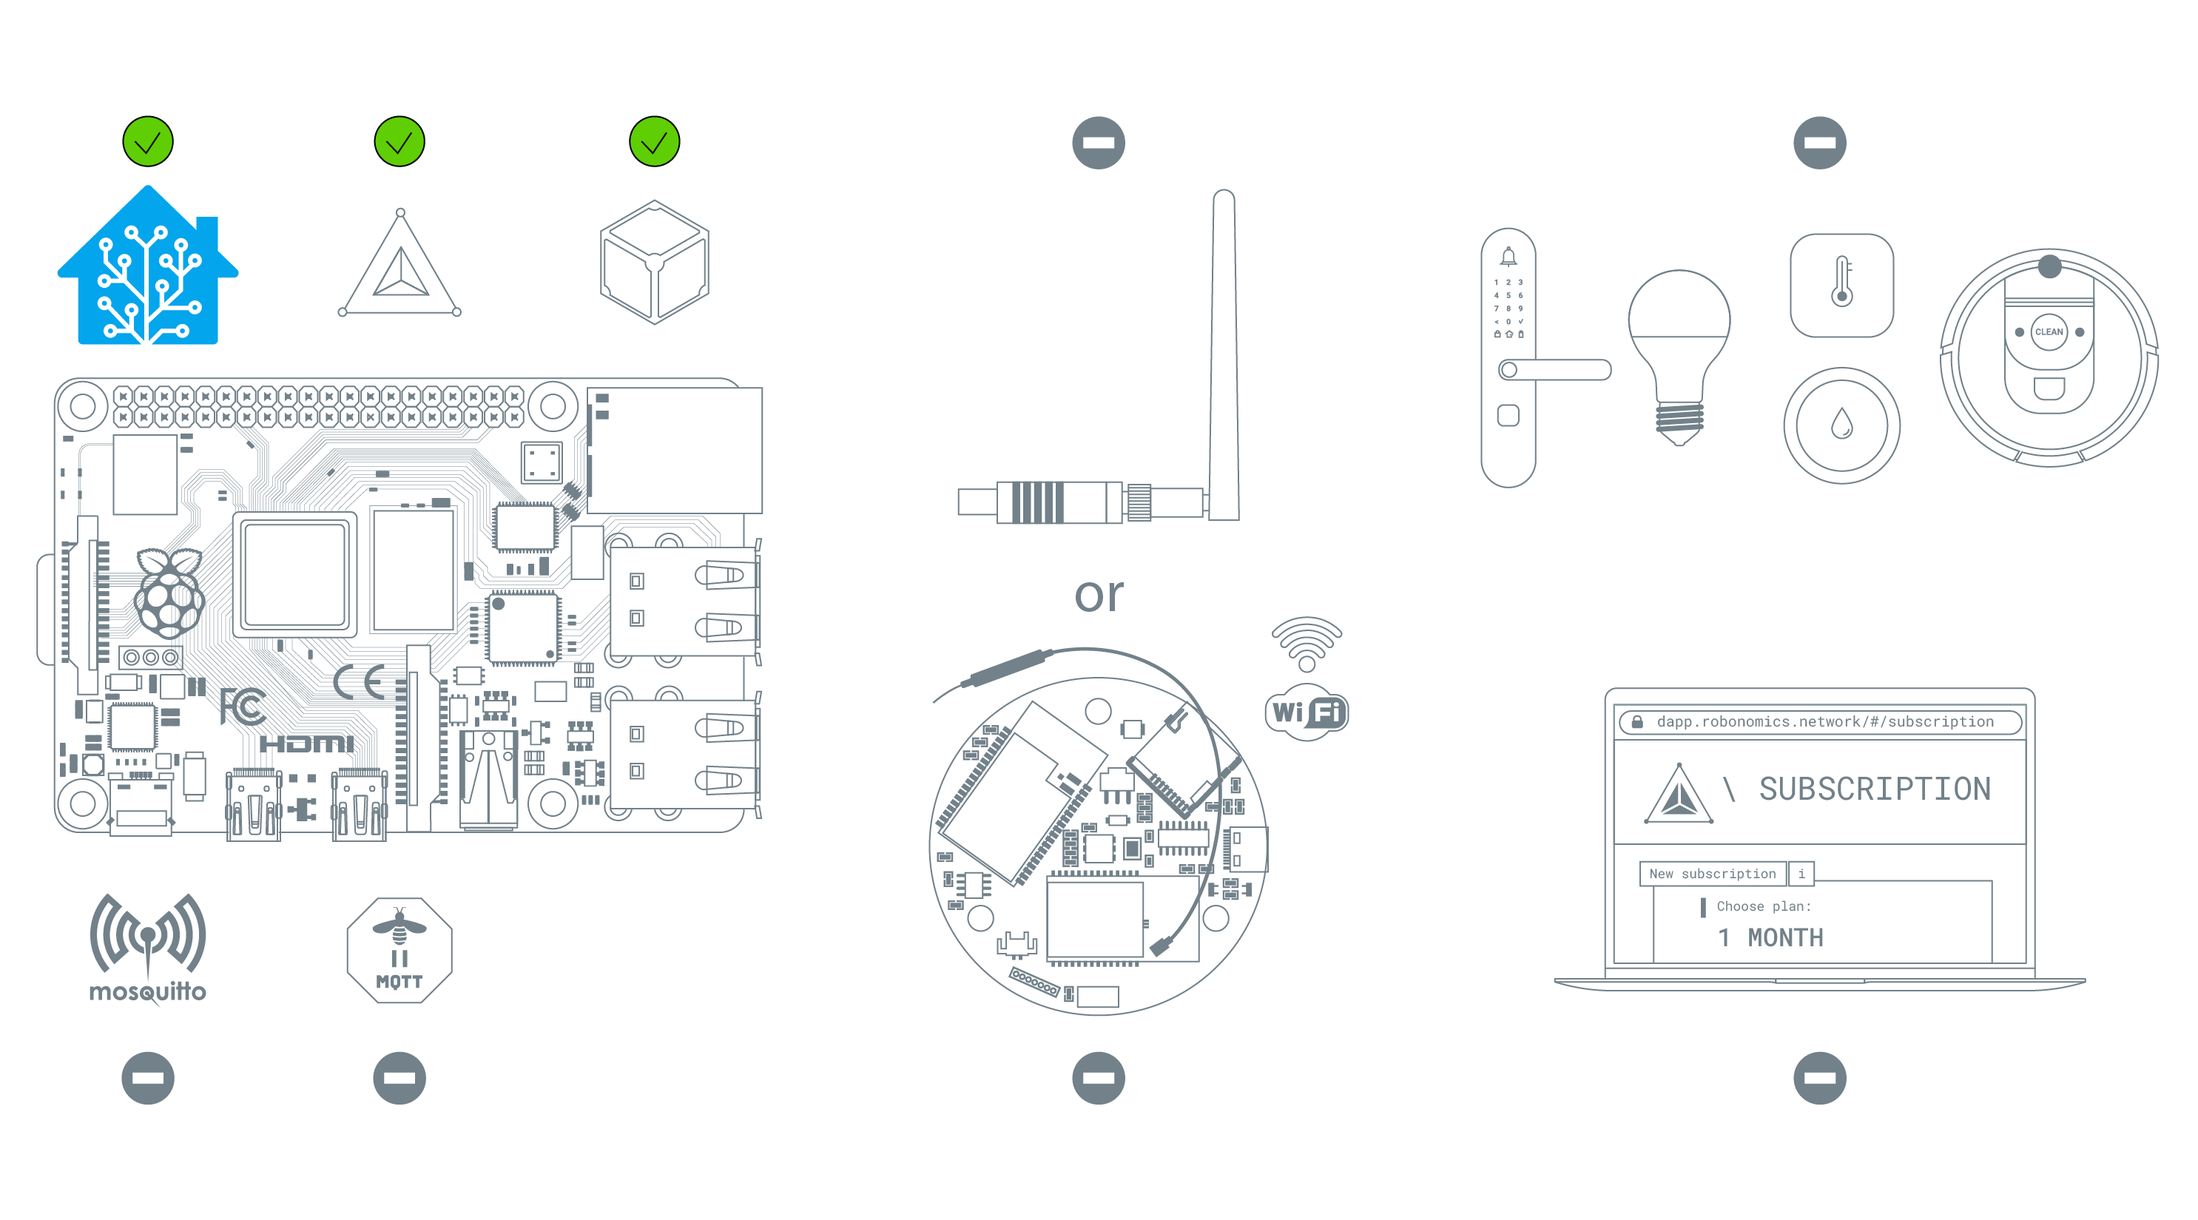
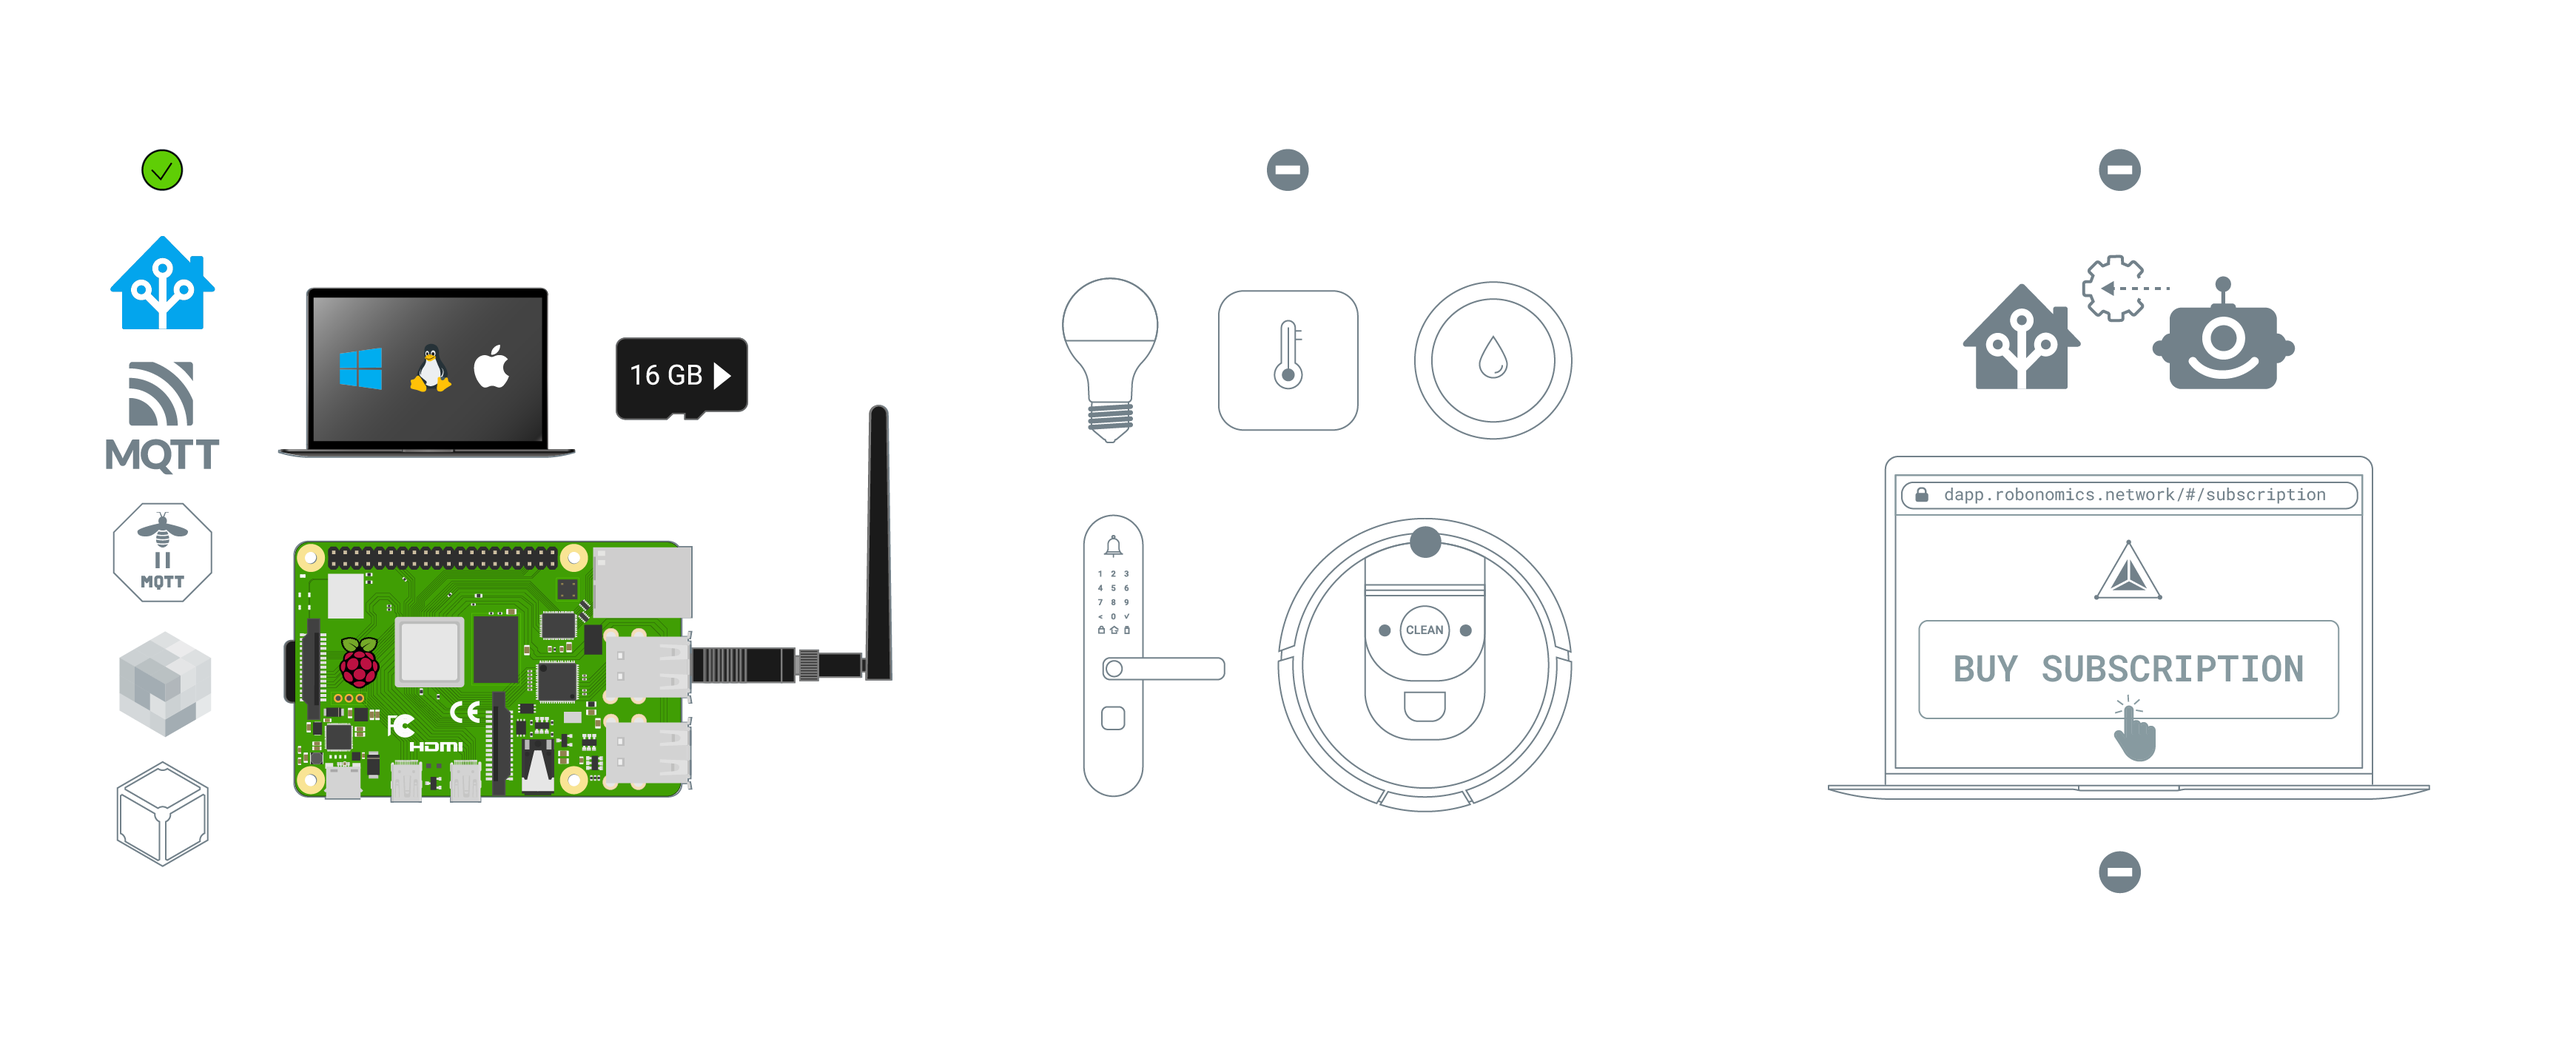
update articles to dapp v0.7.0

diff --git a/docs/sub-activate.md b/docs/sub-activate.md
@@ -4,61 +4,20 @@ contributors: [nakata5321, Fingerling42]
 tools:   
   - Robonomics 2.7.0-1
     https://github.com/airalab/robonomics
-  - Robonomics Dapp 
+  - Robonomics Dapp v0.7.0
     https://github.com/airalab/robonomics.app
 ---
 
-In this article, you will create Robonomics parachain accounts and buy an IoT subscription. 
+**In this article, you will create Robonomics parachain accounts and buy an IoT subscription.**
 
 <robo-wiki-picture src="home-assistant/sub_activate.png" />
 
 
-To control Home Assistant with Robonomics, you need 2 accounts on the Robonomics parachain. For one of the accounts (`OWNER`), you will buy a Robonomics subscription. The second account (`CONTROLLER`) will control all Home Assistant processes (such as telemetry) and will give access to other users. These accounts will provide security for your Home Assistant. 
+To control Home Assistant with Robonomics, you need 2 accounts on the Robonomics parachain. For one of the accounts (`OWNER`), you will buy a Robonomics subscription. The second account (`CONTROLLER`) will control all Home Assistant processes (such as telemetry) and will give access to other users. These accounts will provide security for your Home Assistant.
 
-<robo-wiki-note type="warning" title="WARNING">
+If you don’t have an account, check this article and create [the OWNER account](/docs/create-account-in-dapp/). The Controller account will be created automatically during setup.
 
-Both accounts must be created with **ed25519** encryption. Therefore, you need to create an account using the Polkadot-JS UI and select the required encryption. 
-
-This feature is disabled by default in the Polkadot-JS UI. To enable it, navigate to `Settings` -> `General` -> `account options` and select `Allow local in-browser account storage` in the drop-down menu under `in-browser account creation`.
-
-</robo-wiki-note>
-
-## Create Owner and Controller Accounts
-
-<robo-wiki-video autoplay loop controls :videos="[{src: 'QmajeEV4adqR2DCaBJPZhH6NR74eHaRmvCcbeQtnLm7Kcc', type:'mp4'}]" />
-
-1. Go to [Robonomics Parachain app](https://polkadot.js.org/apps/?rpc=wss%3A%2F%2Fkusama.rpc.robonomics.network%2F#/) on the Polkadot / Substrate Portal. **Check the top left corner to ensure that you are connected to Robonomics Parachain.**
-
-2. Go to `Accounts` -> `Accounts` and press the `Add account` button. You will see the popup menu with account seed. It has two forms: *Mnemonic* (human-readable) and *Raw* (a sequence of digits and letters). 
-
-3. Open `Advanced creation options`, change the crypto type of the account being created to `Edwards - ed25519` and press `Next`.
-
-4. Save the mnemonic seed phrase securely and press `Next`.
-
-5. In the next menu, you need to set the account name and password. For convenience, name it  `OWNER`. Press `Next`.
-
-6. In the final window, click `Save` to complete the account creation. This will also generate a backup JSON-files that you should store safely. You can later use this file to recover your account if you remember the password.
-
-7. Repeat these steps to create an account with the name `CONTROLLER`.
-
-
-## Add Accounts to Polkadot.js
-
-For convenience, you should use the [Polkadot.js extension](https://polkadot.js.org/extension/) and add these newly created accounts to it. For an ed25519 account, you can do that only with a backup JSON file. You can use the files saved when you created the accounts.
-
-You can get these files again by creating a backup file of the account. Click on the three dots next to your account, choose `Create a backup file for this account` and type in your password.
-
-<robo-wiki-video autoplay loop controls :videos="[{src: 'Qmc5LcbLSdVCUubLomUUo5Qxrxb2xaixpwUFqnpj2C9iM5', type:'mp4'}]" />
-
-1. Open the extension and press the `+` button in the top right, then choose `Restore account from backup JSON file`.
-
-2. In the opened window, upload the JSON file, enter the password, and press `Restore`.
-
-3. Make sure the Robonomics network is selected for accounts in the Polkadot.js extension. On on Polkadot / Substrate Portal go to `Settings` -> `Metadata` and click the `Update metadata` button. 
-
-4. Confirm the metadata update in the popup. The extension will now show the label of the network for which the address is used.
-
-<robo-wiki-video autoplay loop controls :videos="[{src: 'QmXVhu17Qkx8VkAAVfm5mUBzSTq1BvaAF7MNdXLgZSvZcR', type:'mp4'}]" />
+In the article, a [Polkadot.js extension](https://polkadot.js.org/extension/) wallet is used for working with accounts, but you can use another wallet that is convenient for you.
 
 ## Activate Robonomics Subscription 
 
@@ -82,17 +41,24 @@ For this step, you must have a sufficient amount of XRT tokens (minimum of 2-3 X
 
 Now you need to setup you subscription by adding the `CONTROLLER` account to it.
 
-<robo-wiki-video autoplay loop controls :videos="[{src: 'Qmd5P356UE1yDLAd4uSdq1dERbyp5gk5wpWD3iENNt2mjV', type:'mp4'}]" />
+<robo-wiki-picture src="home-assistant/sub-setup.png" />
 
-1. Go to the Robonomics dApp and navigate to the [setup a subscription page](https://robonomics.app/#/rws-setup). Navigate to the **GENERAL SETTINGS** section.
+1. Go to the Robonomics dApp and navigate to the [setup a subscription page](https://robonomics.app/#/rws-setup). Navigate to the **Subscription settings** section.
 
-2. Remove the seed phrase from the `Controller's seed phrase` field and enter the `CONTROLLER` account seed phrase into.
+2. In the `Controller's seed phrase` field press magic wand to create new `CONTROLLER` account.
 
-3. Copy the `CONTROLLER` address: open the extension and click on the icon next to the account name.
+3. in the pop-up create password for the `CONTROLLER` account.
 
-4. Paste this address into the `Controller` field and click the `SAVE` button.
+4. On the next pop-up, you will see the address of your new account and the mnemonic seed phrase. Save the mnemonic seed phrase securely because you will need it later 
+for integration setup. Additionally, the JSON file with the `CONTROLLER` account will be downloaded. You can import it to your wallet. 
+How to do it for Polkadot.js extension can be found [here](/docs/create-account-in-dapp/).
 
-## Add Accounts to Subscription
+<robo-wiki-picture src="home-assistant/controller-create.jpg" />
+
+
+5. Close pop-up and click the `SAVE` button.
+
+## Add Controller Account to Subscription
 
 Now, you need to add your `CONTROLLER` account to the **access list**. 
 
@@ -100,8 +66,10 @@ Now, you need to add your `CONTROLLER` account to the **access list**.
 
 1. Go to the Robonomics dApp and navigate to the [setup a subscription page](https://robonomics.app/#/rws-setup). Ensure that you have selected the correct subscription and the `OWNER` account.
 
-2. Copy the `CONTROLLER` address: open the extension and click on the icon next to the account name.
+2. Copy the `CONTROLLER` address: open the extension and click on the icon next to the account name or copy the address from **Subscription settings** section.
 
 3. Paste this address into the `Polkadot address` field in the **USERS IN SUBSCRIPTION** section and click the `+` button. 
 
 4. Enter the password for your `OWNER` account in the popup window, then wait for the activation process to be completed.
+
+That's all. Go to the next article.

diff --git a/docs/install-smart-home.md b/docs/install-smart-home.md
@@ -2,13 +2,13 @@
 title: Smart Home Installation
 contributors: [nakata5321, PaTara43]
 tools:
-  - Home Assistant 2024.4.4
+  - Home Assistant 2024.6.2
     https://github.com/home-assistant/core
-  - Robonomics Home Assistant Integration 1.8.3
+  - Robonomics Home Assistant Integration 1.8.6
     https://github.com/airalab/homeassistant-robonomics-integration
-  - IPFS 0.27.0
+  - IPFS 0.29.0
     https://docs.ipfs.tech/
-  - Zigbee2MQTT 1.37.1
+  - Zigbee2MQTT 1.38.0
     https://github.com/Koenkk/zigbee2mqtt
 ---
 
@@ -16,6 +16,8 @@ tools:
 a centralized hub for controlling smart devices in your home network. By integrating with Robonomics, a decentralized cloud service, you can enhance the functionality and
 security of your smart home. In this article, we will provide step-by-step instructions on how to install Home Assistant with Robonomics, giving you the ability to 
 automate and control various aspects of your home using a secure and decentralized solution. Let's get started!**
+
+<robo-wiki-picture src="home-assistant/INSTALLATION.png" />
 
 ## Demo
 
@@ -70,7 +72,7 @@ This article will show the installation process on Ubuntu system. First you need
 <code-helper copy>
 
 ```
-sudo apt-get install wget unzip git
+sudo apt-get install wget unzip git jq
 ```
 </code-helper>
 
@@ -99,15 +101,16 @@ Then, create a `.env` file from the `template.env`:
 <code-helper copy>
 
 ```
-mv template.env .env
+cp template.env .env
 ```
 
 </code-helper>
 
-After that, you may open the `.env` file and edit default values such as:  
-- Versions of packages
+After that, you may open the `.env` file and edit default values such as:
+
 - path to repository where will be stored all configurations folders.
 - time zone in ["tz database name"](https://en.wikipedia.org/wiki/List_of_tz_database_time_zones).
+- Zigbee channel.
 
 ## 3. Start 
 
@@ -131,7 +134,7 @@ During the installation process the following situations may occur:
 this script will create all necessary repositories and start docker containers
 Cannot find zigbee coordinator location. Please insert it and run script again. The directory /dev/serial/by-id/ does not exist
 Do you want to continue without zigbee coordinator? It will not start Zigbee2MQTT container.
-Do you want to proceed? (y/n) 
+Do you want to proceed? (Y/n) 
 ```
 
 </code-helper>
@@ -150,5 +153,12 @@ You have more that 1 connected devices. Please choose one
 ```
 
 </code-helper>
+
+## Post-installation
+
+After everything has started, you can use the `update.sh` script to update the version of Docker packages. This script will download new versions, 
+delete old versions of packages, and restart everything automatically, saving all your configurations.
+
+To stop everything, use the `stop.sh` script.
 
 That's all. Continue to the next article.

diff --git a/docs/robonomics-hass-integration.md b/docs/robonomics-hass-integration.md
@@ -3,11 +3,23 @@ title: Robonomics integration setup
 
 contributors: [LoSk-p, nakata5321, Fingerling42]
 tools:
-  - Robonomics Home Assistant Integration 1.8.3
+  - Robonomics Home Assistant Integration 1.8.6
     https://github.com/airalab/homeassistant-robonomics-integration
 ---
 
 **In this article, you will add Robonomics to Home Assistant. This allows Home Assistant to record datalogs with encrypted data to Robonomics Parachain and listen to launch commands from the parachain to control smart devices. Integration uses IPFS to store data and send IPFS hashes to datalog or launch functions.**
+
+<robo-wiki-picture src="home-assistant/integration-setup.png" />
+
+First of all you need to create config for your dashboard. For this open your Home Assistant dashboard and at the right top corner press "edit dashboard" button.
+
+<robo-wiki-picture src="home-assistant/take-control.png" />
+
+and then press "TAKE CONTROL".
+
+<robo-wiki-picture src="home-assistant/take-control2.png" />
+
+Now you can install the Robonomics integration. To do so, follow these steps:
 
 <robo-wiki-video autoplay loop controls :videos="[{src: 'QmQp66J943zbF6iFdkKQpBikSbm9jV9La25bivKd7cz6fD', type:'mp4'}]" />
 

diff --git a/docs/robonomics-smart-home-overview.md b/docs/robonomics-smart-home-overview.md
@@ -25,7 +25,7 @@ To solve both problems, we suggest you to try Robonomics, our **secure**, **serv
 
 Here are some simple steps to create an affordable smart home using Home Assistant as a device communication application and Robonomics as a corporate-free, decentralized cloud platform. Robonomics leverages modern and secure Web3 technologies, ensuring enhanced security throughout the process.
 
-<robo-wiki-picture src="home-assistant/robonomics-secure-blockchain-smart-home_3.png" />
+<robo-wiki-picture src="home-assistant/OVERVIEW.png" />
 
 ## Start here your smart home
 

diff --git a/docs/virtual-devices.md b/docs/virtual-devices.md
@@ -6,6 +6,8 @@ contributors: [nakata5321]
 
 **This article will tell you how to create virtual devices in a smart home, so you can see what the actual platform looks like.**
 
+<robo-wiki-picture src="home-assistant/virtual-sensors.png" />
+
 ## Install integration
 
 To use virtual devices you need to install ["demo" integration](https://www.home-assistant.io/integrations/demo/). 

diff --git a/docs/hass-init.md b/docs/hass-init.md
@@ -2,7 +2,7 @@
 title: Home Assistant Initialization
 contributors: [nakata5321, PaTara43]
 tools:
-  - Home Assistant 2024.5.4
+  - Home Assistant 2024.6.2
     https://github.com/home-assistant/core
 ---
 

diff --git a/docs/zigbee-devices.md b/docs/zigbee-devices.md
@@ -3,7 +3,7 @@ title: Zigbee Devices in Zigbee2MQTT
 
 contributors: [nakata5321, PaTara43]
 tools:
-  - Zigbee2MQTT 1.37.1
+  - Zigbee2MQTT 1.38.0
     https://github.com/Koenkk/zigbee2mqtt/
 
 ---
